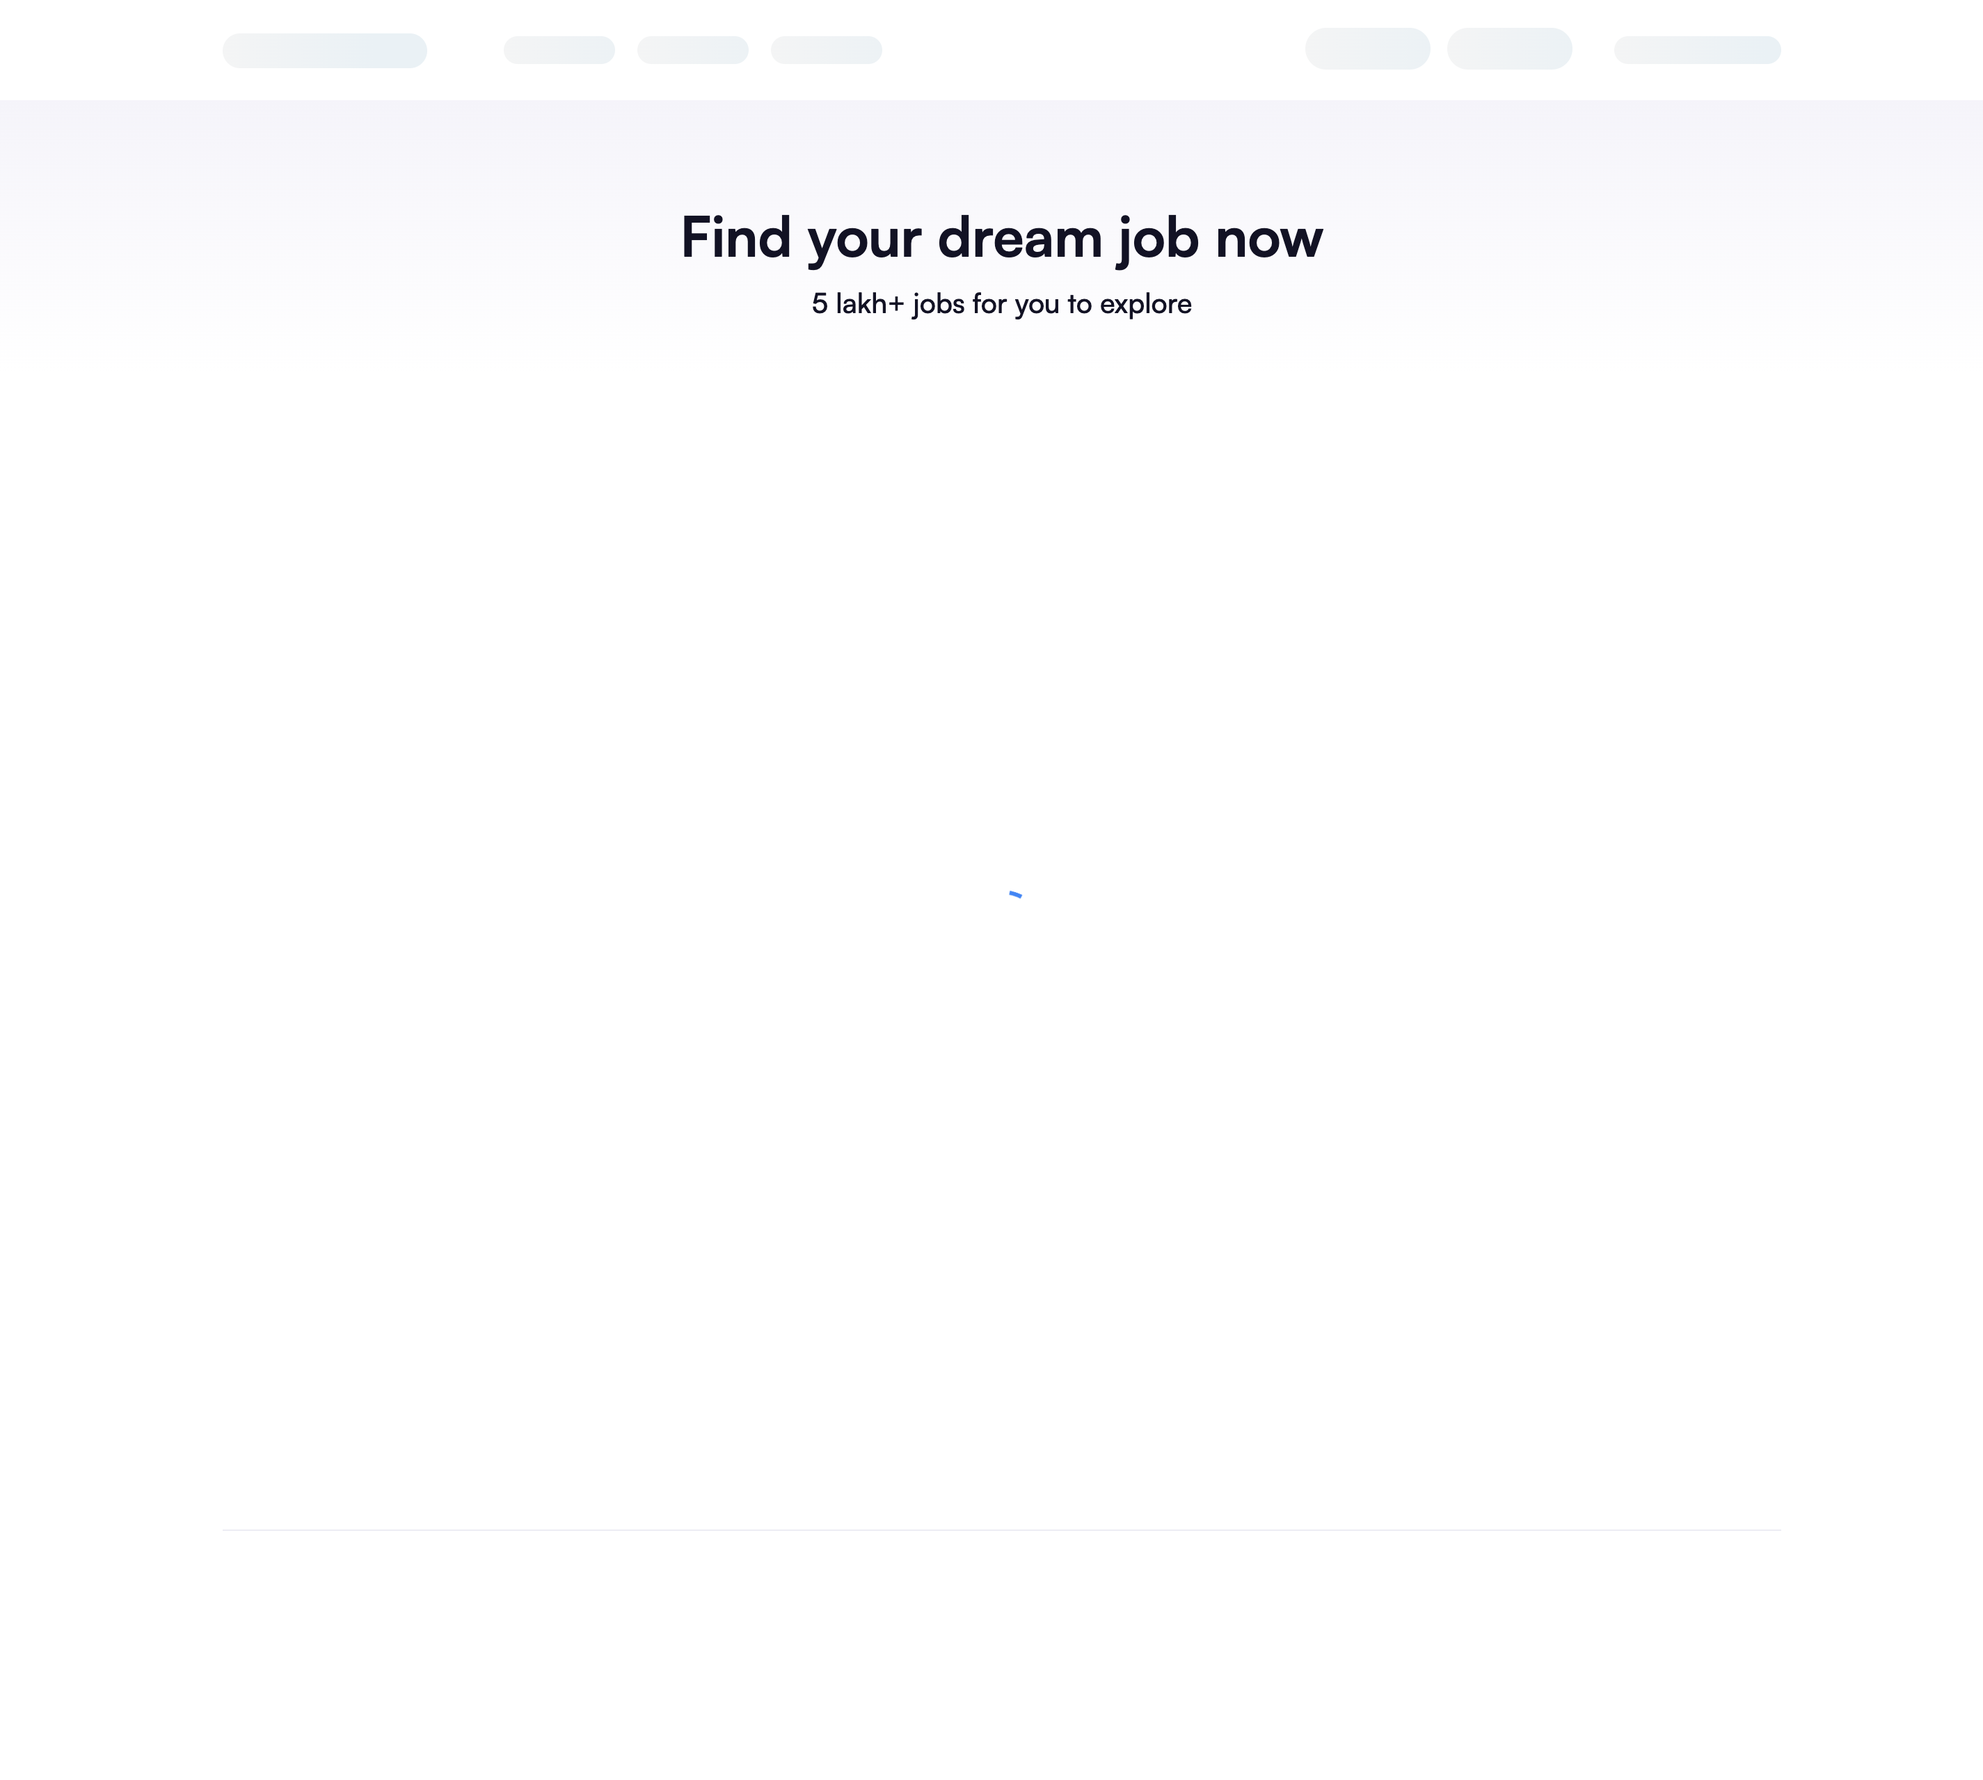
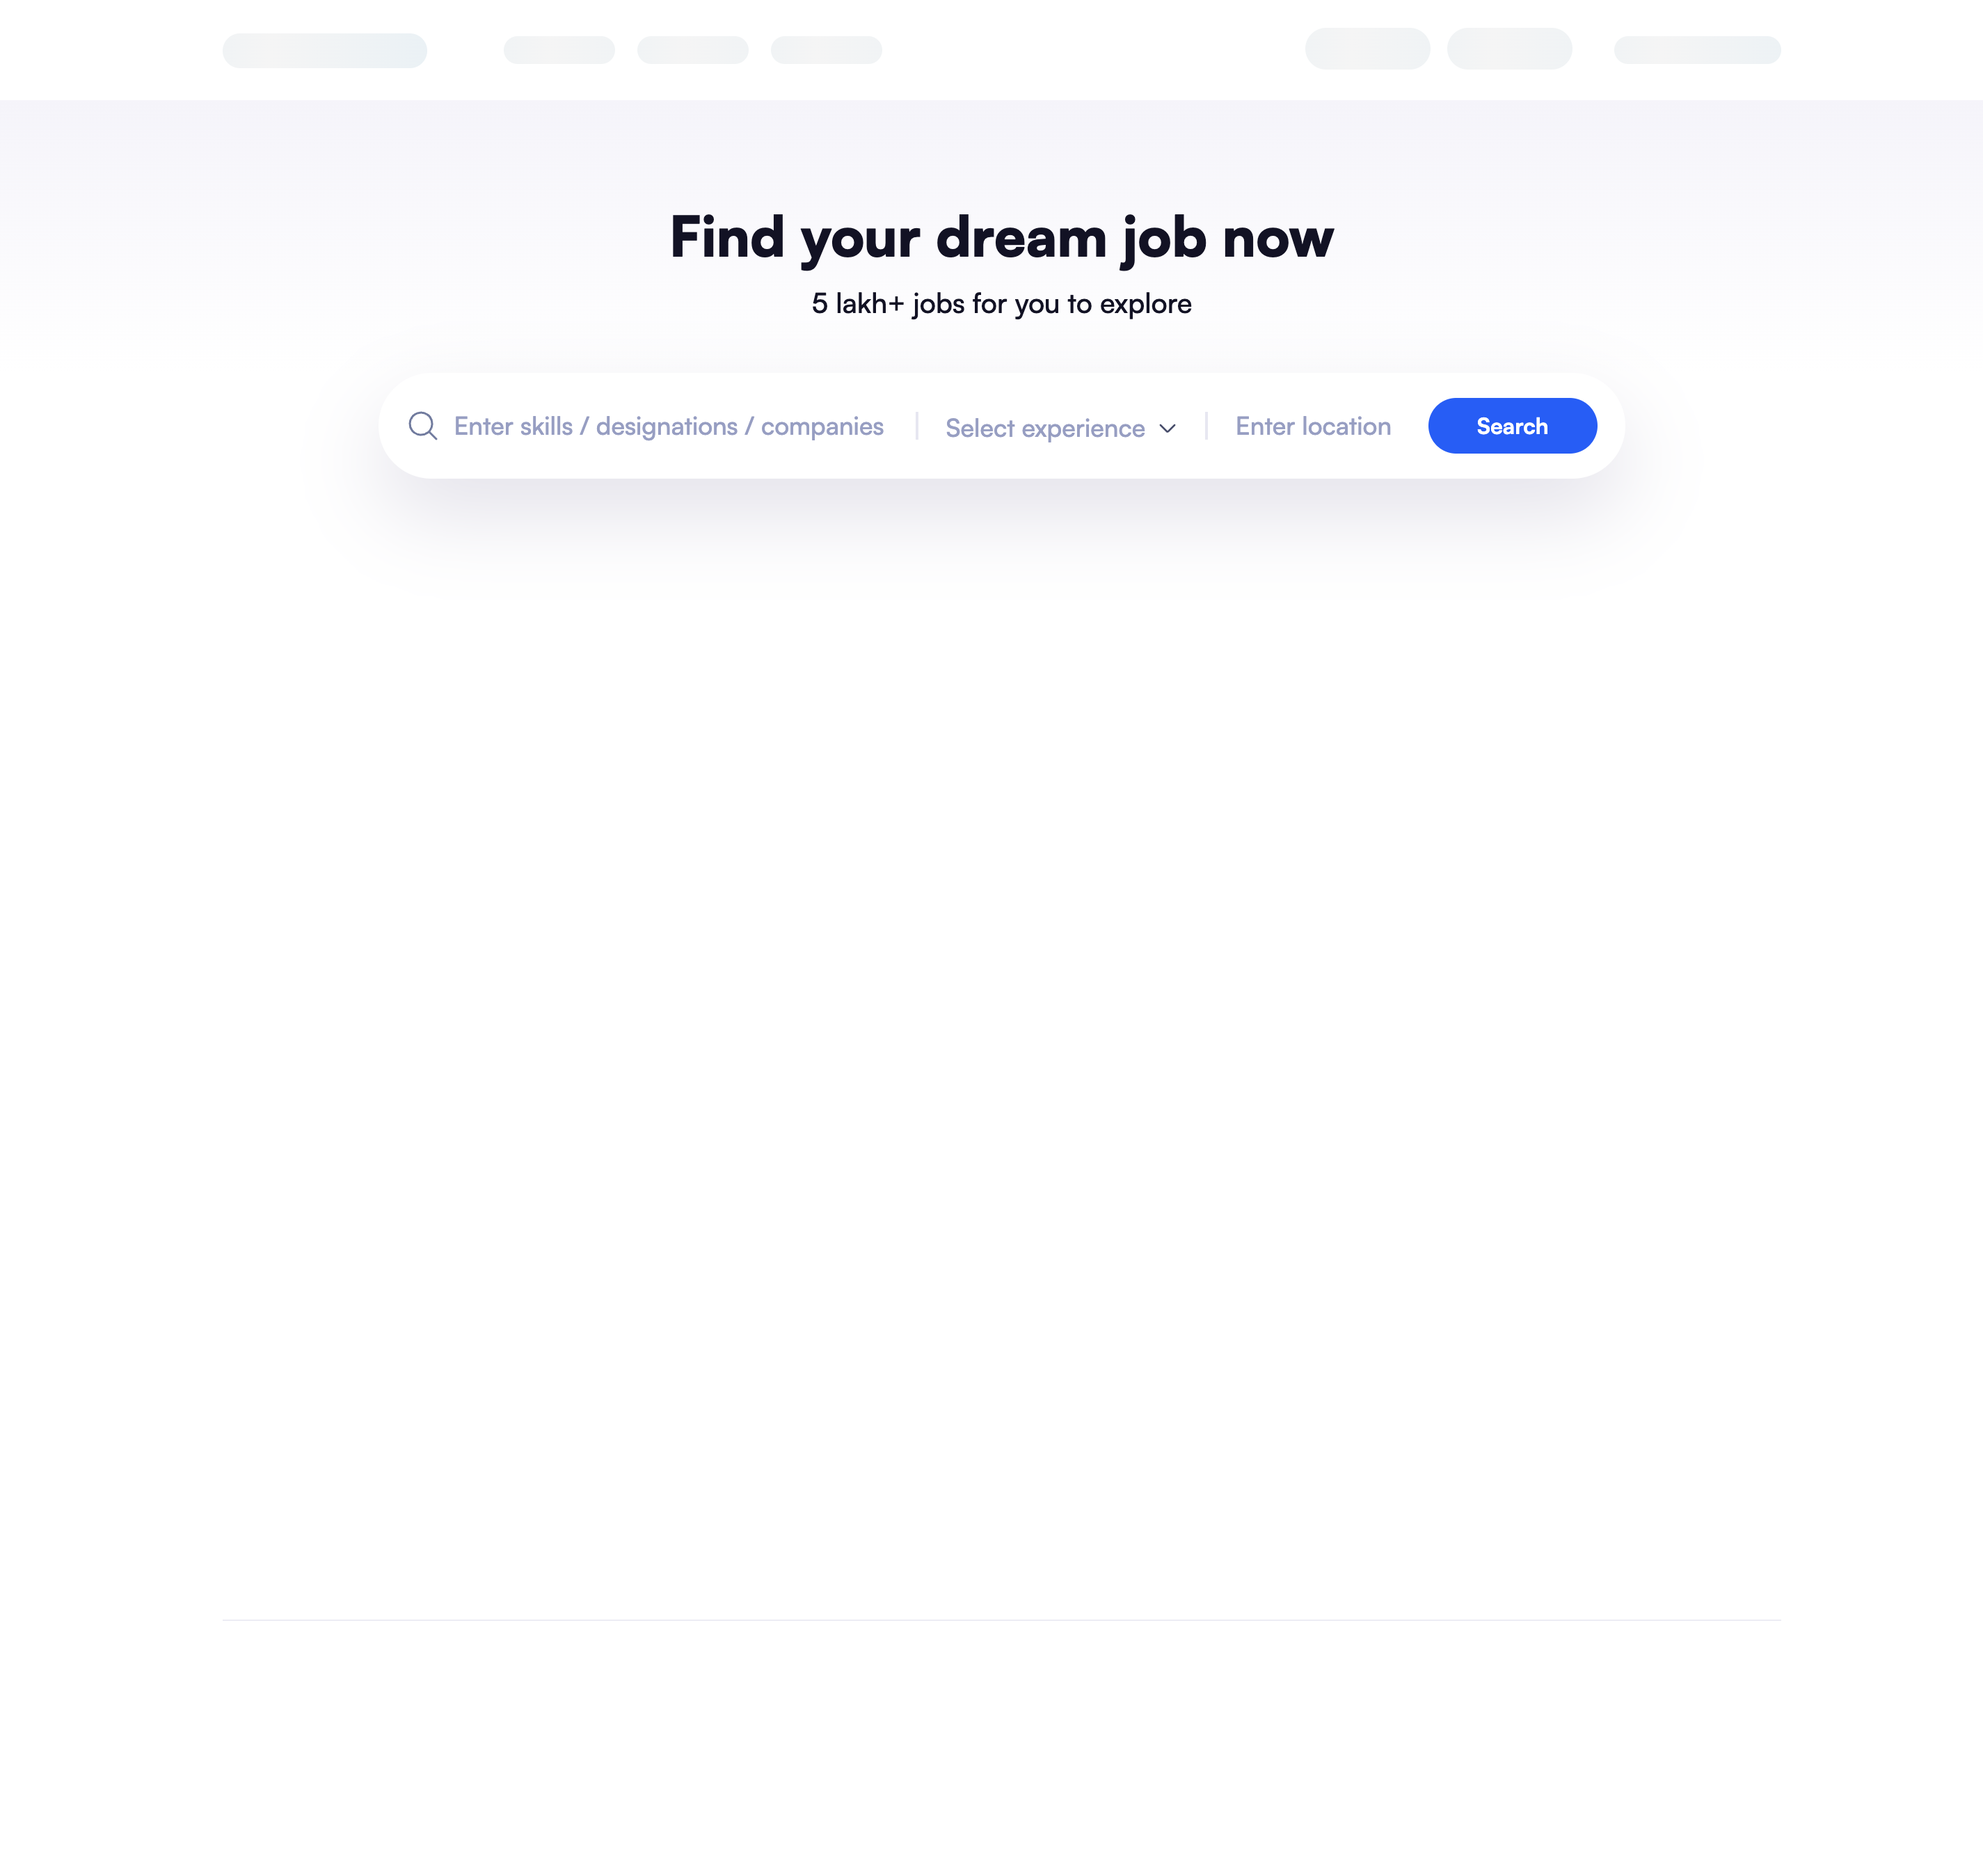
updated naukri.specs

diff --git a/tests/naukri.spec.js b/tests/naukri.spec.js
@@ -22,9 +22,6 @@ test('Update Naukri Profile', async ({ page }) => {
     '4+ YOE | Playwright Automation | JavaScript | Manual Testing | Automation Testing | POM Framework | Functional & Regression Testing | Smoke Testing | JMeter Performance Testing | Test Case Creation | SDLC | STLC | Agile | US Healthcare | Claims | Insurance | Clinical Trials | HIPAA | HL7 | CFR Part 11 | GCP'
   ];
 
-  if (!process.env.NAUKRI_USERNAME || !process.env.NAUKRI_PASSWORD) {
-    throw new Error('Naukri credentials are missing.');
-  }
 
   const isVisible = async locator =>
     locator.isVisible().catch(() => false);
@@ -86,132 +83,13 @@ test('Update Naukri Profile', async ({ page }) => {
 
   await page.locator('button.btn-primary.loginButton').click();
 
-  let state = await detectState();
+  await page.getByText('View profile', { exact: true }).click();
 
-  console.log('State after password login:', state);
-
-  // If the password login did not succeed, select the site's OTP option.
-  if (state === 'use-otp') {
-    await useOtpButton.click();
-    state = await detectState();
-
-    console.log('State after selecting OTP login:', state);
-  }
-
-  // Request a fresh OTP only when the Get OTP action is visible.
-  let loginStartedAt = 0;
-
-  if (state === 'get-otp') {
-    // Start the timestamp immediately before requesting the code.
-    loginStartedAt = Date.now();
-
-    await getOtpButton.click();
-
-    console.log('Clicked Get OTP.');
-
-    state = await detectState();
-
-    console.log('State after requesting OTP:', state);
-  }
-
-  // If the UI changed to an intermediate screen, stop instead of
-  // repeatedly polling Gmail for an OTP that may not have been sent.
-  if (state === 'unknown') {
-    await page.screenshot({
-      path: 'after-login.png',
-      fullPage: true
-    });
-
-    throw new Error(
-      'Login did not reach the profile, Get OTP, or Verify screen. ' +
-      'Inspect after-login.png.'
-    );
-  }
-
-  if (state === 'verify') {
-    if (!loginStartedAt) {
-      throw new Error(
-        'Verification screen appeared without a recorded Get OTP request. ' +
-        'Cannot safely determine which email contains the correct OTP.'
-      );
-    }
-
-    console.log('Actual Verify screen detected.');
-
-    const otp = await getNaukriOtp(loginStartedAt, 120000);
-
-    const otpCandidates = [
-      page.getByLabel(/otp|verification code|one.time password/i),
-      page.getByPlaceholder(/otp|verification code|one.time password/i),
-      page.locator('input[autocomplete="one-time-code"]'),
-      page.locator('input[inputmode="numeric"]')
-    ];
-
-    let otpInput = null;
-
-    for (const candidate of otpCandidates) {
-      const count = await candidate.count().catch(() => 0);
-
-      if (
-        count === 1 &&
-        await candidate.isVisible().catch(() => false)
-      ) {
-        otpInput = candidate;
-        break;
-      }
-    }
-
-    if (!otpInput) {
-      await page.screenshot({
-        path: 'otp-form.png',
-        fullPage: true
-      });
-
-      throw new Error(
-        'Verify screen found, but no unique visible OTP field was identified. ' +
-        'Inspect otp-form.png.'
-      );
-    }
-
-    await otpInput.fill(otp);
-    await verifyButton.click();
-
-    state = await detectState(20000);
-
-    console.log('State after OTP verification:', state);
-
-    if (state !== 'profile') {
-      await page.screenshot({
-        path: 'after-otp.png',
-        fullPage: true
-      });
-
-      throw new Error(
-        'OTP verification did not reach the profile. ' +
-        'Inspect after-otp.png.'
-      );
-    }
-  }
-
-  if (state !== 'profile') {
-    await page.screenshot({
-      path: 'after-login.png',
-      fullPage: true
-    });
-
-    throw new Error(
-      'Profile was not reached. Headline update was skipped.'
-    );
-  }
-
-  await profileLink.click();
-
-  await page.getByRole('button', {
-    name: 'Edit resume headline'
-  }).click();
-
+await page.getByRole('button', { name: 'Edit resume headline' }).click();
   const headline =
     headlines[Math.floor(Math.random() * headlines.length)];
+
+
 
   await page.getByRole('textbox', {
     name: 'Resume headline'

diff --git a/playwright.config.js b/playwright.config.js
@@ -14,7 +14,7 @@ export default defineConfig({
   reporter: 'html',
 
   use: {
-    headless: false,
+    headless: true,
     viewport: null,
 
     launchOptions: {
